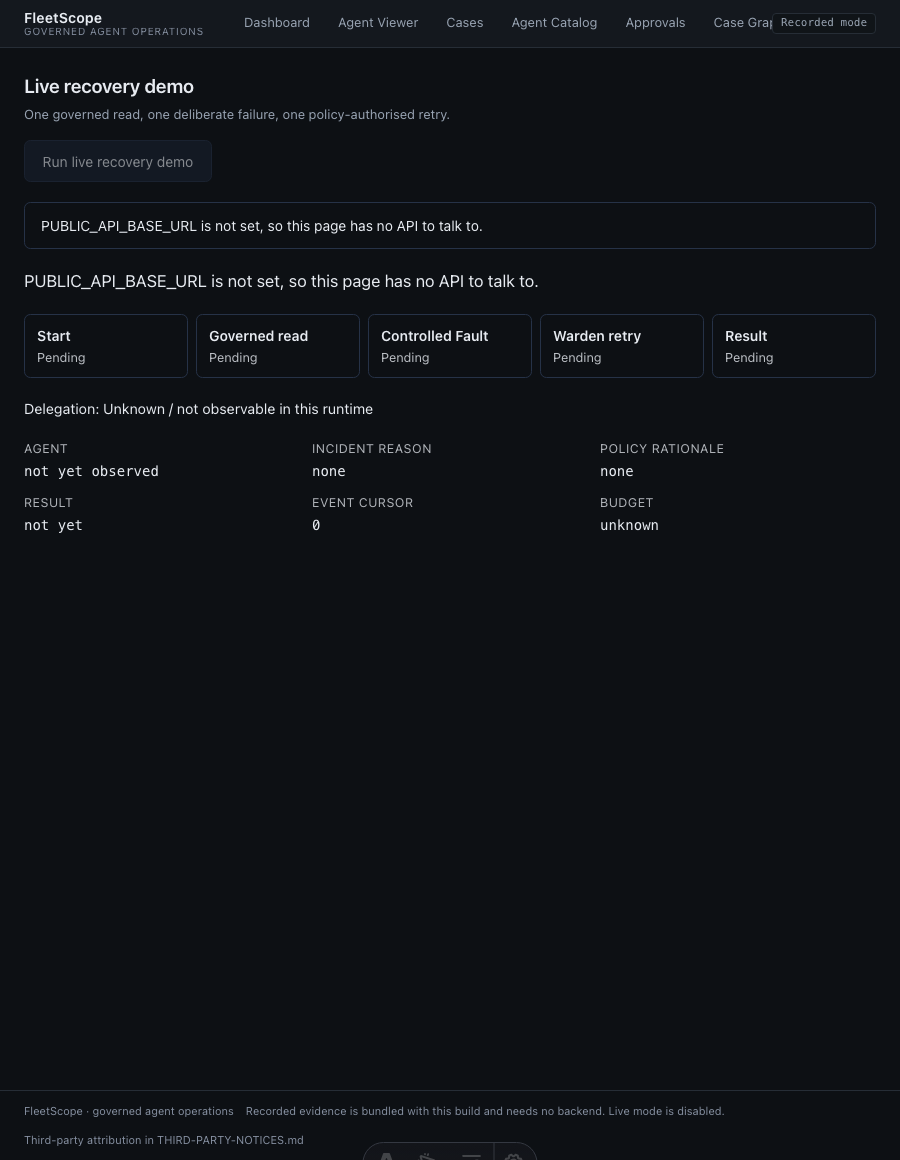
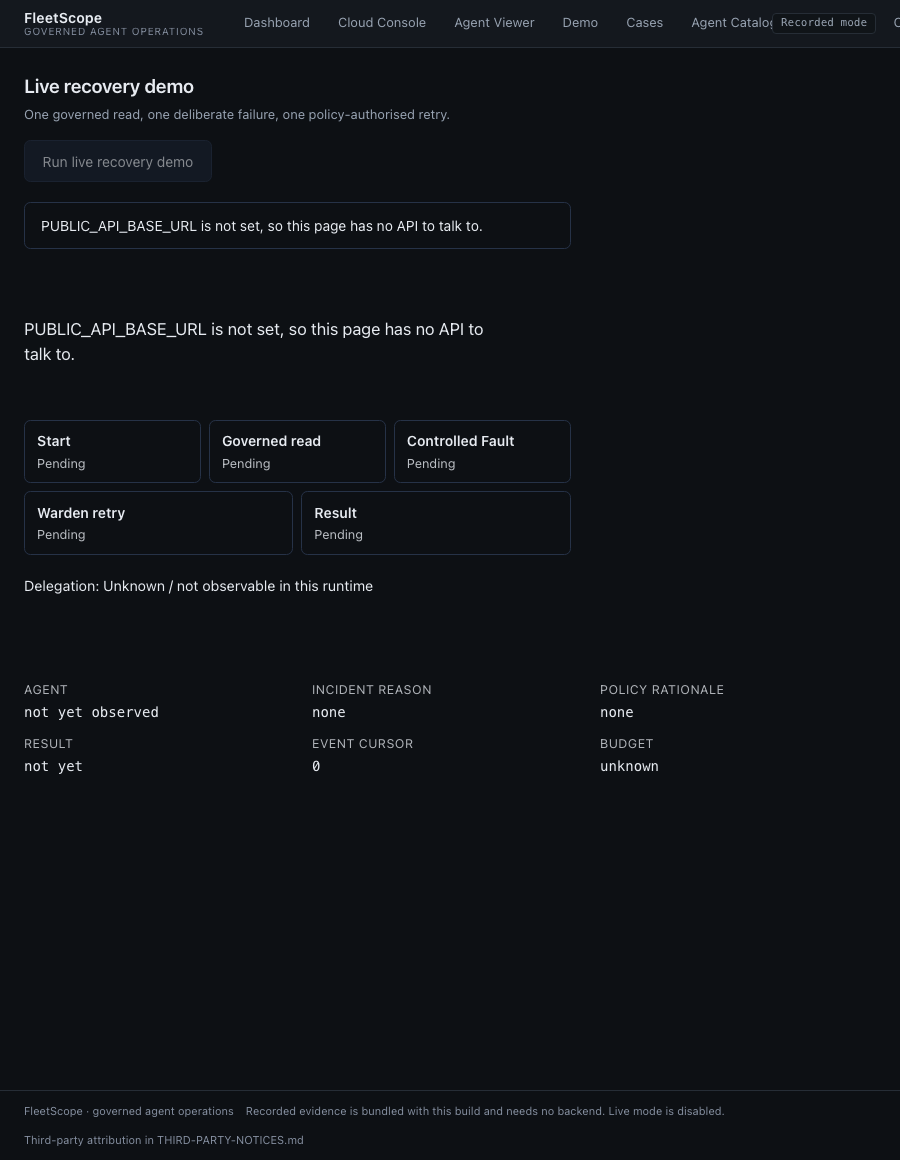
feat(web): launchpad Cloud Console card and recaptured product shots
Add /console and /demo to the landing chapters, recapture product stills,
and point the shot/QA scripts at the current manifest.

diff --git a/scripts/capture-product-shots.ts b/scripts/capture-product-shots.ts
@@ -10,9 +10,18 @@
  * the viewer changes, re-running this updates what the landing page claims it
  * looks like.
  *
+ * # Photograph the build, not the workstation
+ *
+ * Shoot a production preview, not the dev server. The dev server mounts this
+ * machine's `.fleetscope/sessions`, so `/viewer` and `/demo` fill with the
+ * operator's own runs — which puts local session ids on a public page and
+ * gives every machine a different picture of the same product. The preview
+ * serves what visitors actually get.
+ *
  * Usage:
- *   pnpm dev:web                      # in one terminal
- *   pnpm shots                        # in another
+ *   pnpm build:web                                          # dist/
+ *   pnpm --filter @fleetscope/web preview --port 4321       # in one terminal
+ *   pnpm shots                                              # in another
  *   FLEETSCOPE_SHOTS_BASE_URL=… pnpm shots
  */
 import { mkdirSync } from 'node:fs';
@@ -36,20 +45,85 @@ const OUT_DIR = join(repoRoot, 'apps/web/public/product');
 const WIDTH = 900;
 const HEIGHT = 1160;
 
+/*
+ * A safety net for anyone who points this at a dev server anyway.
+ *
+ * None of these exist in a preview build. Astro's dev toolbar is not the
+ * product and sat baked into the bottom of every previous shot; the two local
+ * panels are the product, but they only appear on a machine that happens to
+ * have `.fleetscope/sessions` populated, and photographing them would publish
+ * the operator's own session ids.
+ */
+const NOT_IN_THE_BUILD = `
+  astro-dev-toolbar { display: none !important; }
+  .viewer-sessions { display: none !important; }
+  .live-tui { display: none !important; }
+`;
+
 interface Shot {
   readonly name: string;
   readonly path: string;
+  /**
+   * The skin the route actually ships.
+   *
+   * Feature routes follow the system scheme and ship light; evidence routes
+   * are pinned dark in BaseLayout. Capturing every route dark photographed a
+   * product that no longer exists, which is the exact failure this script is
+   * supposed to prevent.
+   */
+  readonly scheme: 'light' | 'dark';
   /** Run before the screenshot, to put the page into the state worth showing. */
   readonly prepare?: (page: Page) => Promise<void>;
 }
 
+/** Bring an element to the top of the frame, so the shot opens on it. */
+async function frame(page: Page, selector: string): Promise<void> {
+  await page.locator(selector).first().scrollIntoViewIfNeeded();
+  await page.waitForTimeout(400);
+}
+
 const SHOTS: readonly Shot[] = [
+  { name: 'demo', path: '/demo', scheme: 'light' },
+  {
+    name: 'dashboard',
+    path: '/dashboard',
+    scheme: 'light',
+    prepare: async (page) => {
+      await page.waitForFunction(
+        () => document.querySelector('[data-state-panel]')?.getAttribute('data-state') !== null,
+        undefined,
+        { timeout: 15_000 },
+      );
+      await page.waitForTimeout(600);
+    },
+  },
+  {
+    name: 'console',
+    path: '/console',
+    scheme: 'light',
+    prepare: async (page) => {
+      // Overview is four short cards and half a page of white. The Vertex/ADK
+      // panel is the thing the console exists to show: the producer, the
+      // observed model, the agent chain and the READY decision behind it.
+      await page.click('[data-console-tab="session"]');
+      await page.waitForTimeout(600);
+    },
+  },
   {
     name: 'viewer',
     path: '/viewer',
+    scheme: 'light',
     prepare: async (page) => {
-      // The bundled recording, so the shot shows a real projected session
-      // rather than an empty shell.
+      // Only a dev server has this control, and leaving it on would follow
+      // whichever session this machine wrote last instead of the bundled one.
+      await page.evaluate(() => {
+        const newest = document.querySelector<HTMLInputElement>('[data-follow-newest]');
+        if (newest?.checked) {
+          newest.checked = false;
+          newest.dispatchEvent(new Event('change', { bubbles: true }));
+        }
+      });
+
       await page.click('[data-load-demo]');
       await page.waitForFunction(
         () => document.querySelector('[data-position]')?.textContent?.includes('event') === true,
@@ -57,29 +131,25 @@ const SHOTS: readonly Shot[] = [
         { timeout: 15_000 },
       );
       // Let the renderer settle its layout before the frame is taken.
-      await page.waitForTimeout(1_200);
+      await page.waitForTimeout(1_500);
+      await frame(page, '.viewer-shell');
     },
   },
+  { name: 'cockpit', path: '/cockpit/CASE-1042', scheme: 'dark' },
+  { name: 'cases', path: '/cases', scheme: 'dark' },
+  { name: 'catalog', path: '/catalog', scheme: 'dark' },
   {
-    name: 'dashboard',
-    path: '/dashboard',
+    name: 'approvals',
+    path: '/approvals',
+    scheme: 'light',
     prepare: async (page) => {
-      await page.waitForFunction(
-        () =>
-          document.querySelector('[data-state-panel]')?.getAttribute('data-state') ===
-          'workspace-required',
-        undefined,
-        { timeout: 15_000 },
-      );
-      await page.waitForTimeout(400);
+      // The launch-readiness gate is an embed, and an embed caught mid-mount
+      // photographs as a black slab where the gate should be.
+      await page.waitForTimeout(2_500);
     },
   },
-  { name: 'cockpit', path: '/cockpit/CASE-1042' },
-  { name: 'cases', path: '/cases' },
-  { name: 'catalog', path: '/catalog' },
-  { name: 'approvals', path: '/approvals' },
-  { name: 'audit', path: '/audit/CASE-1042' },
-  { name: 'live', path: '/live' },
+  { name: 'audit', path: '/audit/CASE-1042', scheme: 'dark' },
+  { name: 'live', path: '/live', scheme: 'dark' },
 ];
 
 async function main(): Promise<void> {
@@ -88,7 +158,6 @@ async function main(): Promise<void> {
   const context = await browser.newContext({
     viewport: { width: WIDTH, height: HEIGHT },
     deviceScaleFactor: 1,
-    colorScheme: 'dark',
     // The shots are stills. Anything mid-transition photographs as a smear.
     reducedMotion: 'reduce',
   });
@@ -98,12 +167,16 @@ async function main(): Promise<void> {
     for (const shot of SHOTS) {
       const page = await context.newPage();
       try {
+        await page.emulateMedia({ colorScheme: shot.scheme, reducedMotion: 'reduce' });
         await page.goto(`${BASE_URL}${shot.path}`, { waitUntil: 'networkidle' });
+        await page.addStyleTag({ content: NOT_IN_THE_BUILD });
+        // A shot taken mid-swap photographs the fallback face.
+        await page.evaluate(() => document.fonts.ready);
         if (shot.prepare) await shot.prepare(page);
         else await page.waitForTimeout(900);
         const file = join(OUT_DIR, `${shot.name}.png`);
         await page.screenshot({ path: file });
-        process.stdout.write(`captured ${shot.name} -> ${file}\n`);
+        process.stdout.write(`captured ${shot.name} (${shot.scheme}) -> ${file}\n`);
       } catch (error) {
         failed = true;
         process.stdout.write(`FAILED ${shot.name}: ${String(error)}\n`);

diff --git a/apps/web/src/features/launch/chapters.ts b/apps/web/src/features/launch/chapters.ts
@@ -84,15 +84,15 @@ const CARD_ASPECT = 900 / 1160;
  */
 export const LAUNCH_CHAPTERS: readonly LaunchChapter[] = [
   {
-    id: 'viewer',
+    id: 'readings',
     label: 'FleetScope',
     title: 'Watch agent work become evidence',
     summary:
-      'A local Gemini or Antigravity session, read as Session readings. The file never leaves this machine.',
+      'One session, read as seven readings: the handoff order, who held the run, and the one call with no result behind it.',
     detail:
-      'Open the judge poster first: one status line and seven readings from the recorded run. It cannot start an agent, cannot retry a call, and never uploads the file. The interactive flight deck lives at /viewer when you need live follow.',
+      'The zero-click poster. Four agents in handoff order, the lane that timed out, the call that never returned, and the event health of the whole run. It cannot start an agent, cannot retry a call, and never uploads the file. The interactive flight deck is /viewer.',
     route: '/demo',
-    src: '/product/viewer.png',
+    src: '/product/demo.png',
     aspect: CARD_ASPECT,
     agents: ['coordinator', 'flight_search', 'hotel_search', 'itinerary_writer'],
     provenance: 'bundled',
@@ -101,11 +101,11 @@ export const LAUNCH_CHAPTERS: readonly LaunchChapter[] = [
   {
     id: 'dashboard',
     label: '01 — Setup',
-    title: 'What this browser can actually check',
+    title: 'Point it at a session you already have',
     summary:
-      'The runtime and the formats it loaded are probed. Installing the CLI and picking a session are marked manual, never inferred.',
+      'The watch command is copy-and-paste. FleetScope follows the JSONL a producer writes; it never starts one.',
     detail:
-      'It reports only what this browser can be asked directly: the runtime it is on and the session formats it can parse. Anything it cannot verify from here — whether the CLI is installed, which session you mean — is listed as a step for you, not guessed at and shown as a status.',
+      'Copy the command, run it beside whatever is producing the session, then open Agent Viewer on the same file. There is no write path into the run from here: this tab reads the JSONL the producer wrote, holds no key, and starts no model.',
     route: '/dashboard',
     src: '/product/dashboard.png',
     aspect: CARD_ASPECT,
@@ -113,9 +113,23 @@ export const LAUNCH_CHAPTERS: readonly LaunchChapter[] = [
     accent: 'cyan',
   },
   {
+    id: 'console',
+    label: '02 — Decide',
+    title: 'A launch-readiness verdict without a Google login',
+    summary:
+      'Recorded Cloud Run, Storage and ADK facts: the producer, the model observed on the events, and the budget the workflow was held to.',
+    detail:
+      'The launch_readiness record as the project holds it — ADK producer, observed model, the agent chain from launch_readiness down to launch_reviewer, and a budget of six calls in 180 seconds. Nothing on this page calls Vertex, gcloud or the Cloud Admin APIs, so it opens without project IAM.',
+    route: '/console',
+    src: '/product/console.png',
+    aspect: CARD_ASPECT,
+    provenance: 'recorded',
+    accent: 'cyan',
+  },
+  {
     id: 'observe',
-    label: '02 — Observe',
-    title: 'Four agents, twenty events, one graph',
+    label: '03 — Observe',
+    title: 'Five agents, one graph, one Rust core',
     summary:
       'Detection, parsing and the fold are one Rust core. The terminal and this browser run the same projection.',
     detail:
@@ -123,13 +137,12 @@ export const LAUNCH_CHAPTERS: readonly LaunchChapter[] = [
     route: '/viewer',
     src: '/product/viewer.png',
     aspect: CARD_ASPECT,
-    agents: ['coordinator', 'flight_search', 'hotel_search', 'itinerary_writer'],
     provenance: 'bundled',
     accent: 'violet',
   },
   {
     id: 'cases',
-    label: '03 — Cases',
+    label: '04 — Cases',
     title: 'Every run that has been recorded',
     summary: 'A Case is a run plus the evidence behind it. Open one to follow what happened.',
     detail:
@@ -142,7 +155,7 @@ export const LAUNCH_CHAPTERS: readonly LaunchChapter[] = [
   },
   {
     id: 'govern',
-    label: '04 — Govern',
+    label: '05 — Govern',
     title: 'Every claim points at an event',
     summary:
       'The recorded recovery, with each governance step linked to the canonical event that evidences it.',
@@ -158,11 +171,12 @@ export const LAUNCH_CHAPTERS: readonly LaunchChapter[] = [
   },
   {
     id: 'approvals',
-    label: '05 — Approvals',
+    label: '06 — Approvals',
     title: 'Decisions that needed a person',
-    summary: 'An approval is event-backed or it is not shown. There is no implied consent here.',
+    summary:
+      'One gate, one action, one target: the agent that hit its ceiling, and exactly what it is asking for.',
     detail:
-      'An approval appears only when a canonical event records a person making it. Silence, a timeout, or a default is not consent, and none of them will render here as one.',
+      'A gate names the agent, the limit it reached and the specific ask — two more model calls for this run, not a raised quota. An approval appears only when a canonical event records a person making it, and silence, a timeout or a default is not consent.',
     route: '/approvals',
     src: '/product/approvals.png',
     aspect: CARD_ASPECT,
@@ -171,7 +185,7 @@ export const LAUNCH_CHAPTERS: readonly LaunchChapter[] = [
   },
   {
     id: 'catalog',
-    label: '06 — Catalog',
+    label: '07 — Catalog',
     title: 'Which agent version may be launched',
     summary: 'A catalog entry records an approved version. It is not proof that anything ran.',
     detail:
@@ -184,7 +198,7 @@ export const LAUNCH_CHAPTERS: readonly LaunchChapter[] = [
   },
   {
     id: 'audit',
-    label: '07 — Audit',
+    label: '08 — Audit',
     title: 'Reconstruct the whole record',
     summary:
       'A read-only projection of every canonical event in the Case. Replay causes no side effects.',

diff --git a/scripts/qa-landing.ts b/scripts/qa-landing.ts
@@ -21,13 +21,21 @@
 import { mkdirSync } from 'node:fs';
 import { join } from 'node:path';
 import { chromium, type Page } from 'playwright';
+import { LAUNCH_CHAPTERS, visibleChapters } from '../apps/web/src/features/launch/chapters';
 
 const BASE_URL = process.env['FLEETSCOPE_QA_BASE_URL'] ?? 'http://localhost:4321';
 /** Optional: write a frame per section so the page can be reviewed by eye. */
 const SHOTS = process.env['FLEETSCOPE_QA_SHOTS'] ?? null;
 
-/** Kept in step with the launch manifest. */
-const EXPECTED_CHAPTERS = 8;
+/*
+ * Read from the manifest rather than written down.
+ *
+ * A literal here goes stale the moment a chapter is added, and it goes
+ * stale silently: the gate fails with a number nobody can interpret instead
+ * of naming the rule. `liveVerified: false` matches what the page renders,
+ * since a live card is withheld without a capability response.
+ */
+const EXPECTED_CHAPTERS = visibleChapters(LAUNCH_CHAPTERS, { liveVerified: false }).length;
 
 const VIEWPORTS = [
   { name: '375x812', width: 375, height: 812, desktop: false },

diff --git a/scripts/browser-qa.ts b/scripts/browser-qa.ts
@@ -1191,8 +1191,8 @@ async function main(): Promise<void> {
     await page.waitForSelector('#agent-viewer-canvas canvas', { timeout: 20_000 });
     check(
       'dashboard: Open Agent Viewer loads the bundled launch-readiness graph',
-      (await page.locator('[data-status]').innerText()).length > 0,
-      await page.locator('[data-status]').innerText(),
+      (await page.locator('[data-viewer-status]').innerText()).length > 0,
+      await page.locator('[data-viewer-status]').innerText(),
     );
     check(
       'viewer: WASM renderer instantiated',
@@ -1206,7 +1206,7 @@ async function main(): Promise<void> {
     );
     check(
       'viewer: demo fingerprint is stable',
-      (await page.locator('[data-status]').innerText()).includes('30c89a4ccc85fcbf'),
+      (await page.locator('[data-viewer-status]').innerText()).includes('30c89a4ccc85fcbf'),
     );
 
     // ── Story Mode ───────────────────────────────────────────────────────

diff --git a/apps/web/src/lib/local-sessions.ts b/apps/web/src/lib/local-sessions.ts
@@ -58,15 +58,11 @@ export function localSessionsVitePlugin(root = sessionsRoot()) {
     name: 'fleetscope-local-sessions',
     configureServer(server: { middlewares: { use: (fn: unknown) => void } }) {
       server.middlewares.use(
-        (
-          req: { url?: string; socket: { remoteAddress?: string } },
-          res: {
-            statusCode: number;
-            setHeader: (k: string, v: string) => void;
-            end: (s?: string) => void;
-          },
-          next: () => void,
-        ) => {
+        (req: { url?: string; socket: { remoteAddress?: string } }, res: {
+          statusCode: number;
+          setHeader: (k: string, v: string) => void;
+          end: (s?: string) => void;
+        }, next: () => void) => {
           const url = (req.url ?? '').split('?')[0] ?? '';
           if (!url.startsWith('/local-sessions')) {
             next();

diff --git a/apps/web/tests/feature-surface.test.ts b/apps/web/tests/feature-surface.test.ts
@@ -171,9 +171,7 @@ describe('the feature-detail visual surface', () => {
     expect(dashboardStyles).toContain('text-align: center');
     expect(plan).toContain('Assistant · Gemini ADK');
     expect(plan).toContain('data-assistant-chat');
-    expect(plan.indexOf('data-assistant-chat')).toBeLessThan(
-      plan.indexOf('id="assistant-plan-title"'),
-    );
+    expect(plan.indexOf('data-assistant-chat')).toBeLessThan(plan.indexOf('id="assistant-plan-title"'));
     expect(plan).toContain('data-support-msg="privacy"');
     expect(plan).toContain('data-support-msg="cli"');
     expect(plan).toContain('data-support-msg="formats"');
